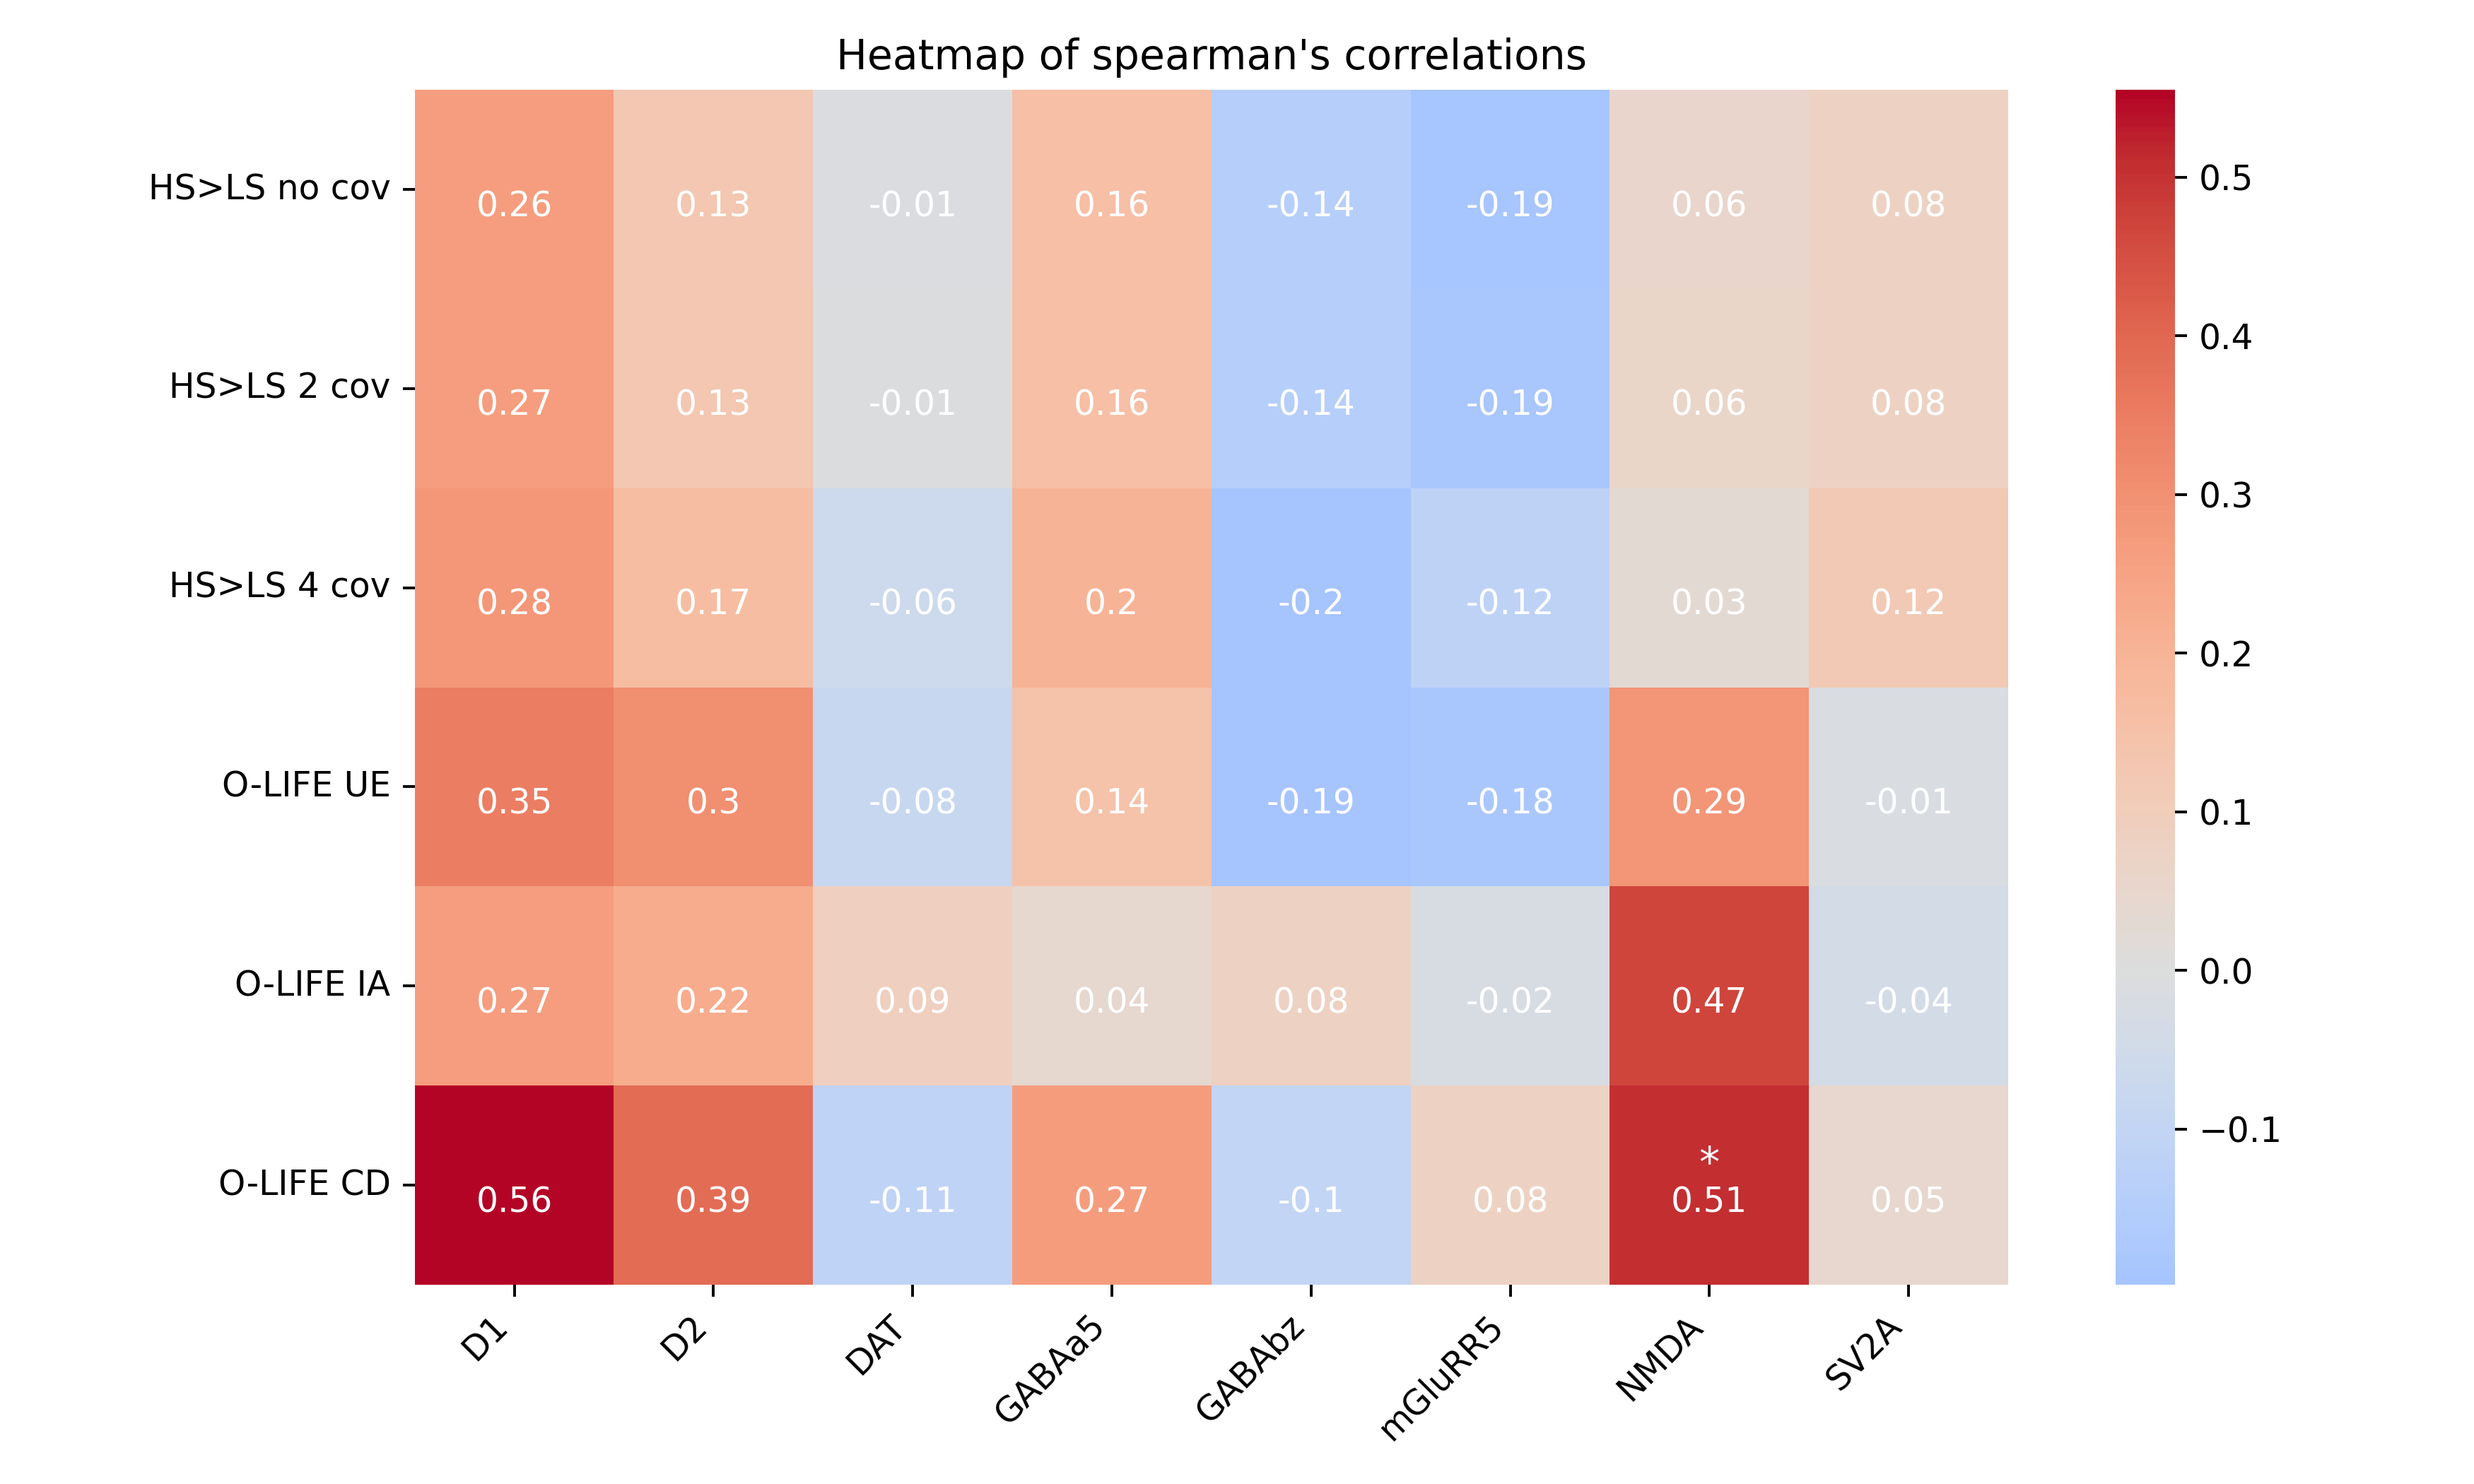
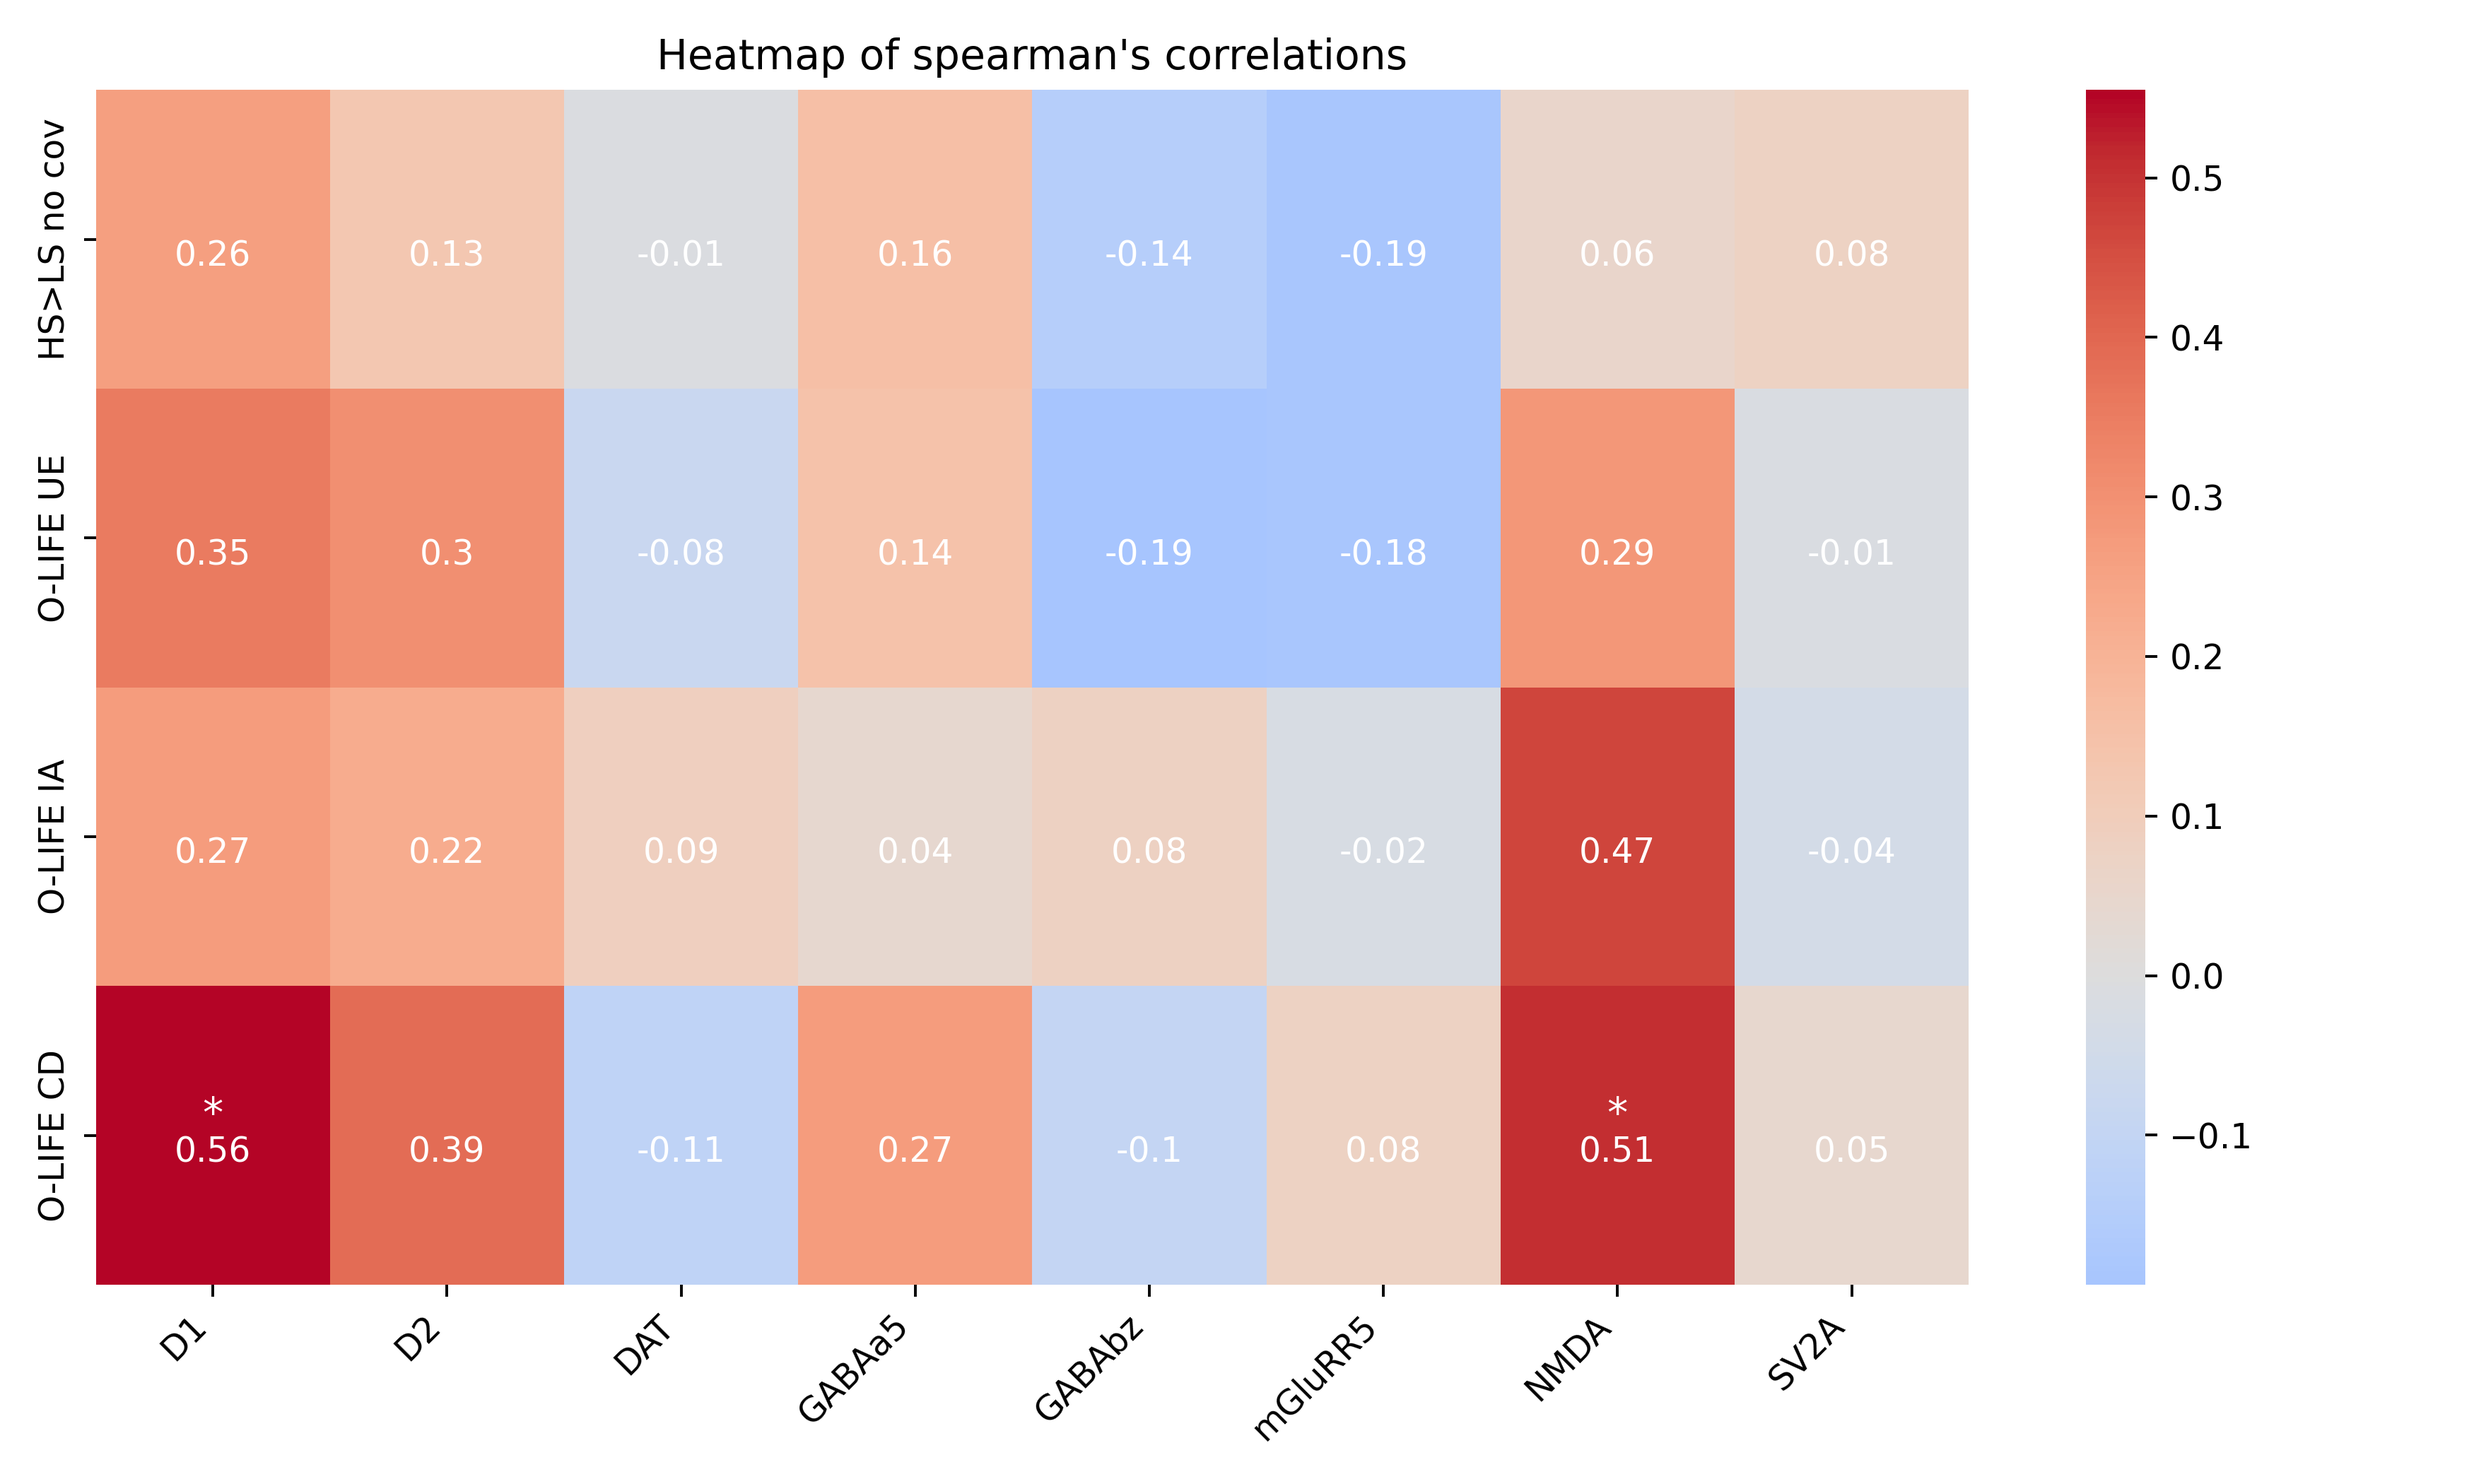
.

diff --git a/4_figures/1_heatmap.py b/4_figures/1_heatmap.py
@@ -2,13 +2,13 @@ import pandas as pd
 import os
 import numpy as np
 
-main_folder='/Users/juliamarcinkowska/Desktop/MSc_THESIS/DataAnalysis/emorisk_2/'
+main_folder=os.getcwd()
 corr_dir=os.path.join(main_folder, '3_results', '3.3_correlations')
 
 CBF_file_names = [ # names of CBF files
     'CBF_no_cov', # no covariates
-    'CBF_cov_age_gender', # 2 covariates: age, sex
-    'CBF_cov_age_gender_caffeine_nicotine', # all 4 covariates: age, sex, coffee, cigarettes
+    # 'CBF_cov_age_gender', # 2 covariates: age, sex
+    # 'CBF_cov_age_gender_caffeine_nicotine', # all 4 covariates: age, sex, coffee, cigarettes
     'O-LIFE-UE', # O-LIFE-UE regression
     'O-LIFE-IA', # O-LIFE-IA regression
     'O-LIFE-CD' # O-LIFE-CD regression
@@ -52,8 +52,8 @@ plt.rcParams.update({
 # Labels for the heatmap- y axis
 CBF_labels = [ # names of CBF files
     'HS>LS no cov', # no covariates
-    'HS>LS 2 cov', # 2 covariates: age, sex
-    'HS>LS 4 cov', # all 4 covariates: age, sex, coffee, cigarettes
+    # 'HS>LS 2 cov', # 2 covariates: age, sex
+    # 'HS>LS 4 cov', # all 4 covariates: age, sex, coffee, cigarettes
     'O-LIFE UE', # O-LIFE-UE regression
     'O-LIFE IA', # O-LIFE-IA regression
     'O-LIFE CD' # O-LIFE-CD regression
@@ -62,7 +62,7 @@ CBF_labels = [ # names of CBF files
 # Round correlation values to annotate the heatmap
 corr_labels = np.round(all_corrs,2)
 # create dataframe of zeros to use for annotating the heatmap without affecting the colour
-map_zeroes = pd.DataFrame(np.zeros((6, 8)))
+map_zeroes = pd.DataFrame(np.zeros((4, 8)))
 
 # Define figure size
 plt.figure(figsize=(10,6))
@@ -70,9 +70,9 @@ plt.figure(figsize=(10,6))
 cmap=sns.color_palette("coolwarm", as_cmap=True)
 
 # First heatmap is the transparent/ no-colour heatmap containing just the annotations of correlation coefficients
-heatmap_values = sns.heatmap(map_zeroes, cmap=None, annot_kws={'va':'top', 'fontsize':'medium'}, annot=corr_labels, square=True, cbar=False)
+heatmap_values = sns.heatmap(map_zeroes, cmap=None, annot_kws={'va':'top', 'fontsize':'medium'}, annot=corr_labels, square=False, cbar=False)
 # The second heatmap is the main one, colour based on strength of correlations, while annotations are based on p_values (* if significant after Bonferroni)
-heatmap_main = sns.heatmap(all_corrs, cmap=cmap, center=0, xticklabels=receptor_names, yticklabels=CBF_labels, annot_kws={'va':'bottom', 'fontsize':'large'}, annot=asterisk, fmt='', square=True)
+heatmap_main = sns.heatmap(all_corrs, cmap=cmap, center=0, xticklabels=receptor_names, yticklabels=CBF_labels, annot_kws={'va':'bottom', 'fontsize':'large'}, annot=asterisk, fmt='', square=False)
 # Set labels/title
 heatmap_main.set(xlabel="", ylabel="", title="Heatmap of spearman's correlations")
 # Rotate labels on x axis by 45 degrees
@@ -80,4 +80,4 @@ plt.xticks(rotation=45, ha="right")
 # Fit all labels within the figure
 plt.tight_layout()
 # plt.show()
-plt.savefig(main_folder+'4_figures/heatmap.png', dpi=350)
+plt.savefig(main_folder+'/4_figures/heatmap.png', dpi=350)

diff --git a/2_scripts/4_multiple_comparisons.py b/2_scripts/4_multiple_comparisons.py
@@ -2,13 +2,13 @@ from statsmodels.stats.multitest import multipletests
 import pandas as pd
 import os
 
-main_folder='/Users/juliamarcinkowska/Desktop/MSc_THESIS/DataAnalysis/emorisk_2/'
+main_folder=os.getcwd()
 corr_dir=os.path.join(main_folder, '3_results', '3.3_correlations')
 
 CBF_file_names = [ # names of CBF files
     'CBF_no_cov', # no covariates
-    'CBF_cov_age_gender', # 2 covariates: age, sex
-    'CBF_cov_age_gender_caffeine_nicotine', # all 4 covariates: age, sex, coffee, cigarettes
+    # 'CBF_cov_age_gender', # 2 covariates: age, sex
+    # 'CBF_cov_age_gender_caffeine_nicotine', # all 4 covariates: age, sex, coffee, cigarettes
     'O-LIFE-UE', # O-LIFE-UE regression
     'O-LIFE-IA', # O-LIFE-IA regression
     'O-LIFE-CD' # O-LIFE-CD regression
@@ -36,12 +36,12 @@ all_pvals.index = CBF_file_names
 all_pvals = pd.melt(all_pvals, ignore_index=False, var_name='CBF map', value_name='p_val')
 
 # BONFERRONI CORRECTION
-all_pvals['p_reject'], all_pvals['pvals_corrected'], dontneedthis, alphacBonf = multipletests(pvals=all_pvals['p_val'], method='bonferroni', alpha=0.05)
-print(all_pvals)
+all_pvals['p_reject'], all_pvals['pvals_corrected'], dontneedthis, alphacBonf = multipletests(pvals=all_pvals['p_val'], method='holm', alpha=0.05)
+
 # Pivot the p-values dataframe back to previous shape in preparation for data visualisation
 bool_pvals = all_pvals.pivot(columns='CBF map', values='p_reject')
 # the order of column and rows was changes in the process, so re-index the dataframe
 bool_pvals = bool_pvals.reindex((CBF_file_names), axis='rows')
 bool_pvals = bool_pvals.reindex((atlas_names), axis='columns')
-print(bool_pvals)
+
 bool_pvals.to_csv(corr_dir+'/all_p_values_bonferroni.csv',index_label='atlas')
